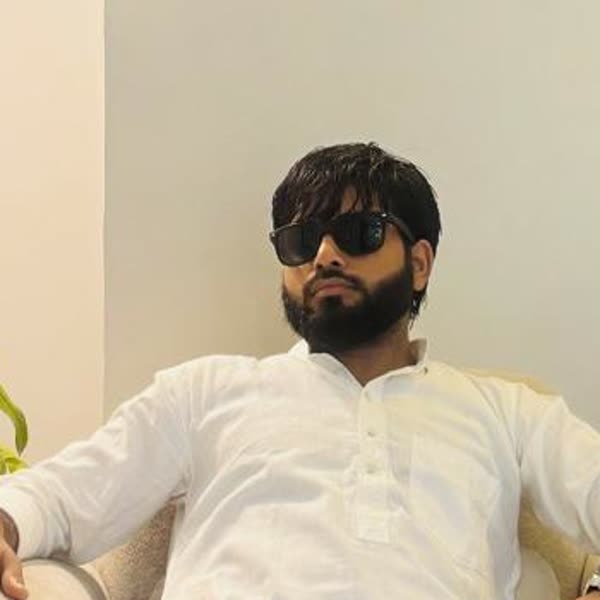
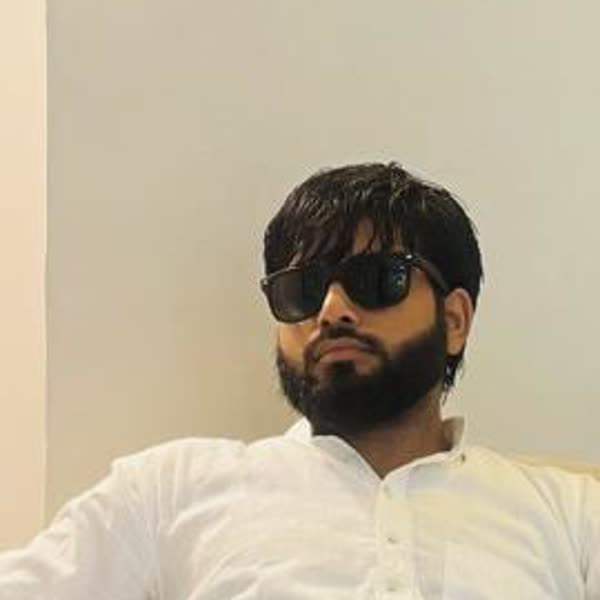
feat(ui): zoom and center Firoz portrait to match leadership proportions, bump cache buster to v8

diff --git a/index.html b/index.html
@@ -861,7 +861,7 @@
       <div class="dir-card-top-accent"></div>
       <div class="dir-founder-photo-wrap firoz">
         <div class="dir-photo-inner">
-          <img alt="Mr. Firoz Khan - Co-Founder &amp; Owner" class="dir-founder-img" src="assets/founders/firoz-khan.jpg?v=7" onerror="this.style.display='none'; this.nextElementSibling.style.display='flex';"/>
+          <img alt="Mr. Firoz Khan - Co-Founder &amp; Owner" class="dir-founder-img" src="assets/founders/firoz-khan.jpg?v=8" onerror="this.style.display='none'; this.nextElementSibling.style.display='flex';"/>
           <div class="dir-founder-fallback" style="display:none; background:linear-gradient(135deg, #d97706, #b45309);">FK</div>
         </div>
         <div class="dir-founder-verified-badge" title="Verified Owner &amp; 5-Star Amenities Curator">★</div>
@@ -896,7 +896,7 @@
       <div class="dir-card-top-accent"></div>
       <div class="dir-founder-photo-wrap shah">
         <div class="dir-photo-inner">
-          <img alt="Mr. Shahanshah - Co-Founder &amp; Owner" class="dir-founder-img" src="assets/founders/shahanshah.jpg?v=7" onerror="this.style.display='none'; this.nextElementSibling.style.display='flex';"/>
+          <img alt="Mr. Shahanshah - Co-Founder &amp; Owner" class="dir-founder-img" src="assets/founders/shahanshah.jpg?v=8" onerror="this.style.display='none'; this.nextElementSibling.style.display='flex';"/>
           <div class="dir-founder-fallback" style="display:none; background:linear-gradient(135deg, #1e293b, #0f172a);">SK</div>
         </div>
         <div class="dir-founder-verified-badge" title="Verified Owner &amp; Luxury Villa Curator">★</div>
@@ -931,7 +931,7 @@
       <div class="dir-card-top-accent"></div>
       <div class="dir-founder-photo-wrap praveen">
         <div class="dir-photo-inner">
-          <img alt="Praveen Singh - Operations &amp; Tech Lead" class="dir-founder-img" src="assets/founders/praveen-singh.jpg?v=7" onerror="this.style.display='none'; this.nextElementSibling.style.display='flex';"/>
+          <img alt="Praveen Singh - Operations &amp; Tech Lead" class="dir-founder-img" src="assets/founders/praveen-singh.jpg?v=8" onerror="this.style.display='none'; this.nextElementSibling.style.display='flex';"/>
           <div class="dir-founder-fallback" style="display:none; background:linear-gradient(135deg, #0284c7, #0369a1);">PS</div>
         </div>
         <div class="dir-founder-verified-badge" title="Verified Operations Manager">✓</div>

diff --git a/properties.html b/properties.html
@@ -845,7 +845,7 @@
       <div class="dir-card-top-accent"></div>
       <div class="dir-founder-photo-wrap firoz">
         <div class="dir-photo-inner">
-          <img alt="Mr. Firoz Khan - Co-Founder &amp; Owner" class="dir-founder-img" src="assets/founders/firoz-khan.jpg?v=7" onerror="this.style.display='none'; this.nextElementSibling.style.display='flex';"/>
+          <img alt="Mr. Firoz Khan - Co-Founder &amp; Owner" class="dir-founder-img" src="assets/founders/firoz-khan.jpg?v=8" onerror="this.style.display='none'; this.nextElementSibling.style.display='flex';"/>
           <div class="dir-founder-fallback" style="display:none; background:linear-gradient(135deg, #d97706, #b45309);">FK</div>
         </div>
         <div class="dir-founder-verified-badge" title="Verified Owner &amp; 5-Star Amenities Curator">★</div>
@@ -880,7 +880,7 @@
       <div class="dir-card-top-accent"></div>
       <div class="dir-founder-photo-wrap shah">
         <div class="dir-photo-inner">
-          <img alt="Mr. Shahanshah - Co-Founder &amp; Owner" class="dir-founder-img" src="assets/founders/shahanshah.jpg?v=7" onerror="this.style.display='none'; this.nextElementSibling.style.display='flex';"/>
+          <img alt="Mr. Shahanshah - Co-Founder &amp; Owner" class="dir-founder-img" src="assets/founders/shahanshah.jpg?v=8" onerror="this.style.display='none'; this.nextElementSibling.style.display='flex';"/>
           <div class="dir-founder-fallback" style="display:none; background:linear-gradient(135deg, #1e293b, #0f172a);">SK</div>
         </div>
         <div class="dir-founder-verified-badge" title="Verified Owner &amp; Luxury Villa Curator">★</div>
@@ -915,7 +915,7 @@
       <div class="dir-card-top-accent"></div>
       <div class="dir-founder-photo-wrap praveen">
         <div class="dir-photo-inner">
-          <img alt="Praveen Singh - Operations &amp; Tech Lead" class="dir-founder-img" src="assets/founders/praveen-singh.jpg?v=7" onerror="this.style.display='none'; this.nextElementSibling.style.display='flex';"/>
+          <img alt="Praveen Singh - Operations &amp; Tech Lead" class="dir-founder-img" src="assets/founders/praveen-singh.jpg?v=8" onerror="this.style.display='none'; this.nextElementSibling.style.display='flex';"/>
           <div class="dir-founder-fallback" style="display:none; background:linear-gradient(135deg, #0284c7, #0369a1);">PS</div>
         </div>
         <div class="dir-founder-verified-badge" title="Verified Operations Manager">✓</div>
